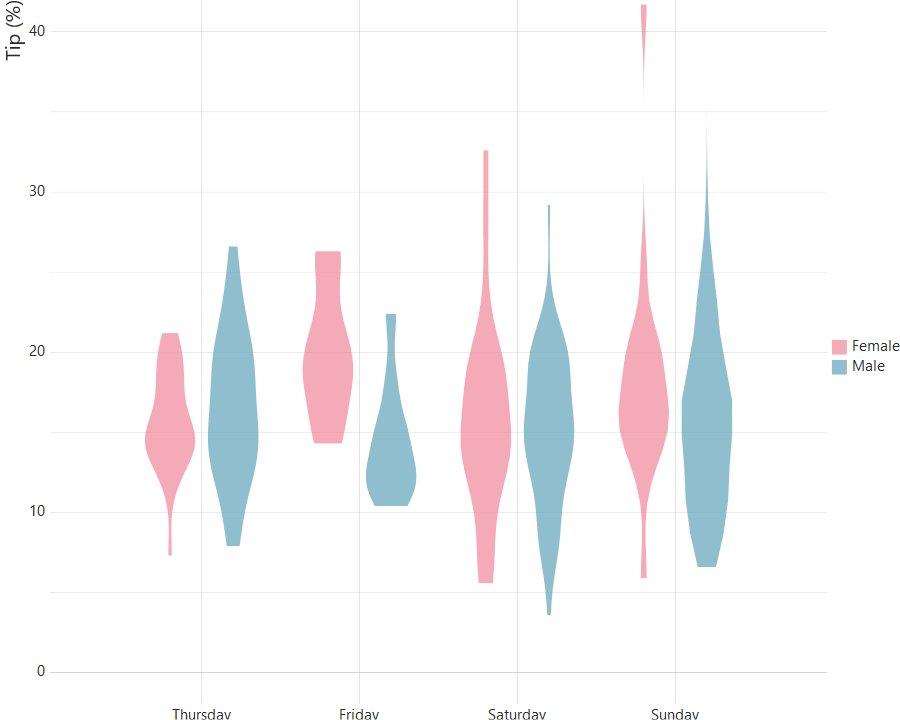
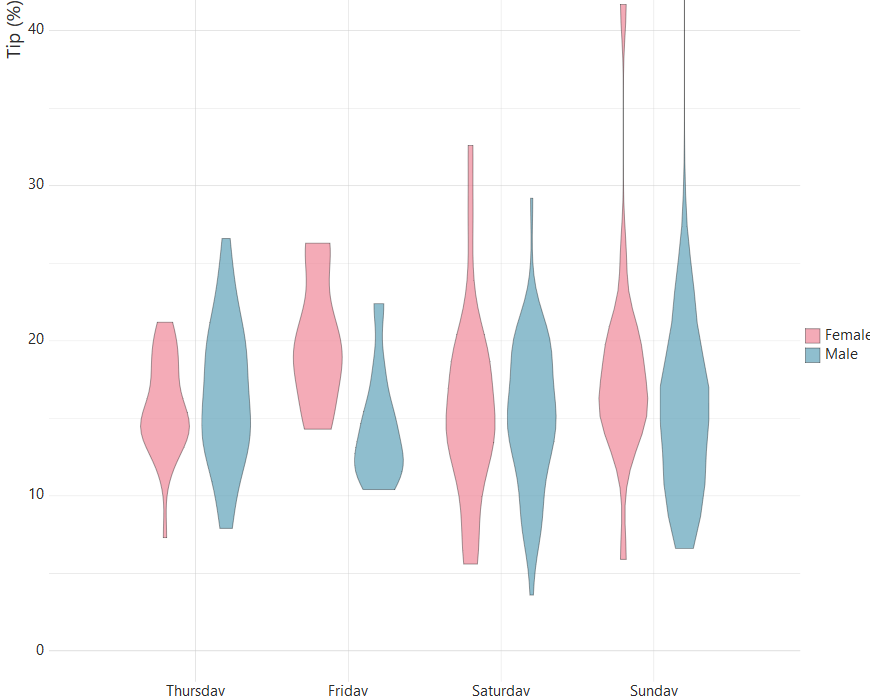
Version 1.1.0 released to Nuget

diff --git a/GGNet/Plot/Plot.cs b/GGNet/Plot/Plot.cs
@@ -1658,7 +1658,7 @@ namespace GGNet
             Func<T2, TY2> y = null,
             Func<T2, double> width = null,
             IAestheticMapping<T2, string> _fill = null,
-            string fill = "#23d0fc", double alpha = 1.0,
+            string fill = "#23d0fc", double alpha = 1.0, string color = "null",
             PositionAdjustment position = PositionAdjustment.Identity,
             bool inherit = true)
             where TX1 : struct
@@ -1673,7 +1673,9 @@ namespace GGNet
                     Aesthetic = new Rectangle
                     {
                         Fill = fill,
-                        Alpha = alpha
+                        Alpha = alpha,
+                        Color = string.IsNullOrEmpty(color) ? "inherit" : color,
+                        Width = string.IsNullOrEmpty(color) ? 0.0 : 0.3
                     }
                 };
 
@@ -1690,7 +1692,7 @@ namespace GGNet
             Func<T2, TY2> y = null,
             Func<T2, double> width = null,
             IAestheticMapping<T2, string> _fill = null,
-            string fill = "#23d0fc", double alpha = 1.0,
+            string fill = "#23d0fc", double alpha = 1.0, string color = null,
             PositionAdjustment position = PositionAdjustment.Identity,
             bool inherit = true)
             where TX1 : struct
@@ -1698,7 +1700,7 @@ namespace GGNet
             where TY1 : struct
             where TY2 : struct
         {
-            data.Default_Panel().Geom_Violin(source, x, y, width, _fill, fill, alpha, position, inherit);
+            data.Default_Panel().Geom_Violin(source, x, y, width, _fill, fill, alpha, color, position, inherit);
 
             return data;
         }
@@ -1709,13 +1711,13 @@ namespace GGNet
             Func<T, TY> y = null,
             Func<T, double> width = null,
             IAestheticMapping<T, string> _fill = null,
-            string fill = "#23d0fc", double alpha = 1.0,
+            string fill = "#23d0fc", double alpha = 1.0, string color = null,
             PositionAdjustment position = PositionAdjustment.Identity,
             bool inherit = true)
             where TX : struct
             where TY : struct
         {
-            return Geom_Violin(panel, panel.Data.Source, x, y, width, _fill, fill, alpha, position, inherit);
+            return Geom_Violin(panel, panel.Data.Source, x, y, width, _fill, fill, alpha, color, position, inherit);
         }
 
         public static Data<T, TX, TY> Geom_Violin<T, TX, TY>(
@@ -1724,13 +1726,13 @@ namespace GGNet
             Func<T, TY> y = null,
             Func<T, double> width = null,
             IAestheticMapping<T, string> _fill = null,
-            string fill = "#23d0fc", double alpha = 1.0,
+            string fill = "#23d0fc", double alpha = 1.0, string color = null,
             PositionAdjustment position = PositionAdjustment.Identity,
             bool inherit = true)
             where TX : struct
             where TY : struct
         {
-            data.Default_Panel().Geom_Violin(x, y, width, _fill, fill, alpha, position, inherit);
+            data.Default_Panel().Geom_Violin(x, y, width, _fill, fill, alpha, color, position, inherit);
 
             return data;
         }

diff --git a/GGNet/Geoms/Violin.cs b/GGNet/Geoms/Violin.cs
@@ -133,7 +133,9 @@ namespace GGNet.Geoms
                     legend.Add(label, new Elements.Rectangle
                     {
                         Fill = value,
-                        Alpha = Aesthetic.Alpha
+                        Alpha = Aesthetic.Alpha,
+                        Color = Aesthetic.Color,
+                        Width = Aesthetic.Width
                     });
                 }
             }
@@ -194,7 +196,9 @@ namespace GGNet.Geoms
                         Aesthetic = new Elements.Rectangle
                         {
                             Fill = violin.Key,
-                            Alpha = Aesthetic.Alpha
+                            Alpha = Aesthetic.Alpha,
+                            Color = Aesthetic.Color,
+                            Width = Aesthetic.Width
                         }
                     };
 
@@ -265,7 +269,9 @@ namespace GGNet.Geoms
                         Aesthetic = new Elements.Rectangle
                         {
                             Fill = violin.Key,
-                            Alpha = Aesthetic.Alpha
+                            Alpha = Aesthetic.Alpha,
+                            Color = Aesthetic.Color,
+                            Width = Aesthetic.Width
                         }
                     };
 
